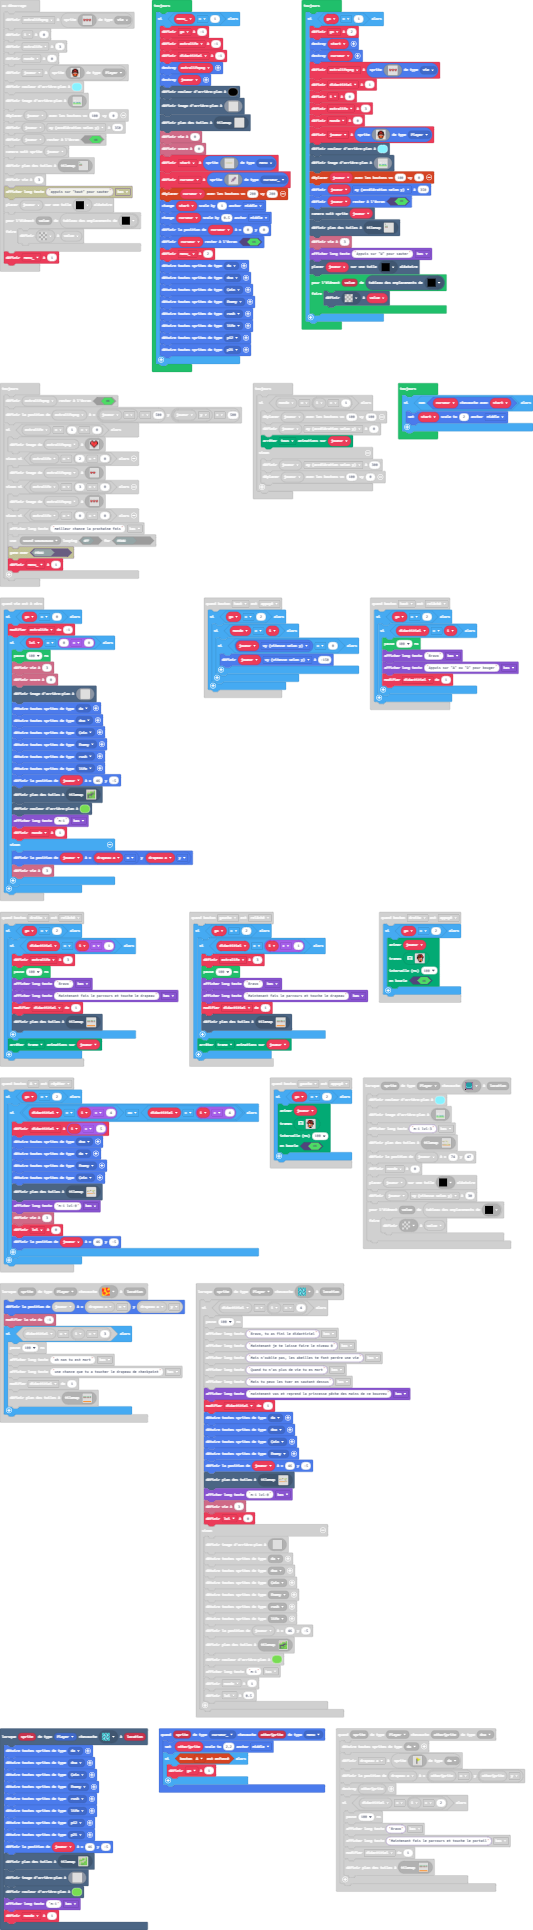
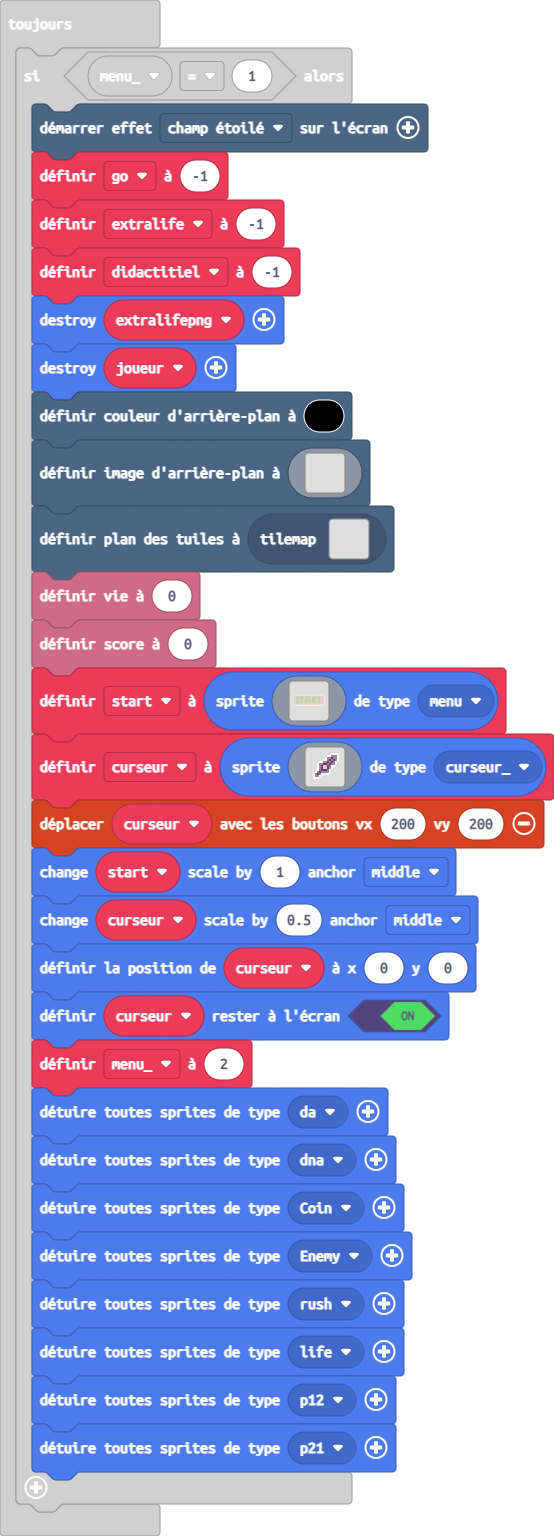
Mise à jour main.blocks, main.ts

diff --git a/main.ts b/main.ts
@@ -2029,6 +2029,7 @@ game.onUpdate(function () {
 })
 forever(function () {
     if (menu_ == 1) {
+        effects.starField.startScreenEffect()
         go = -1
         extralife = -1
         didactitiel = -1
